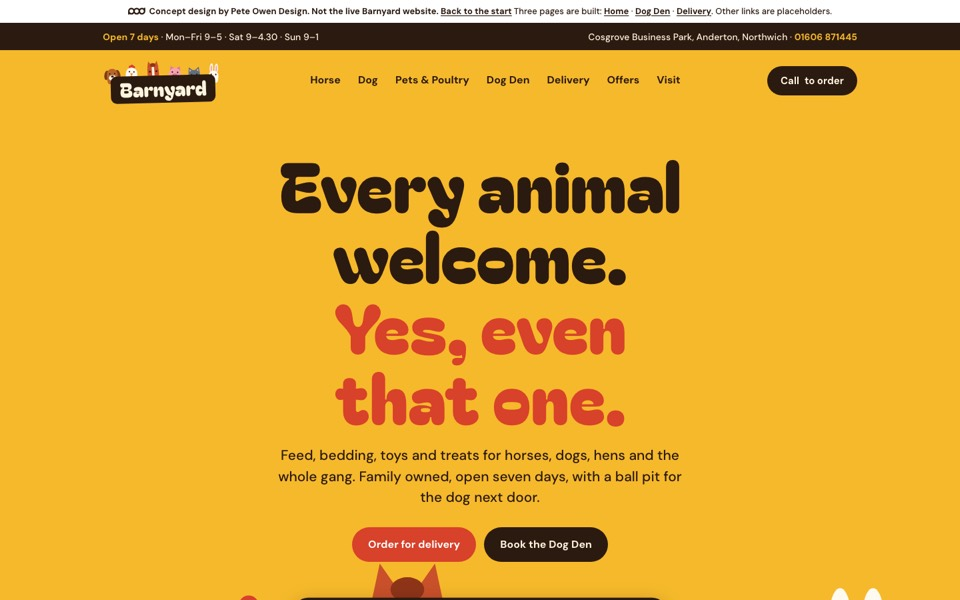
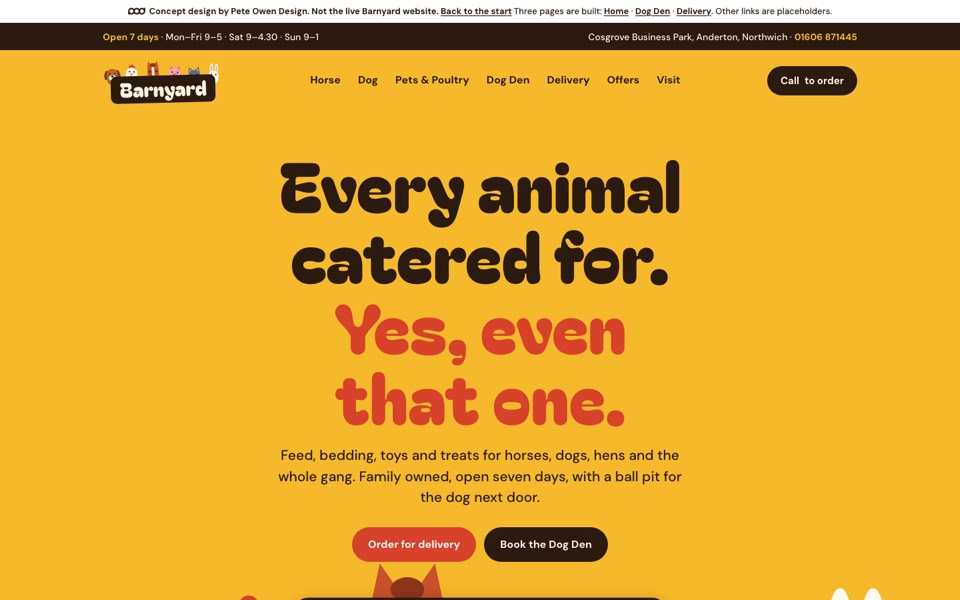
Fix AI check labels stretching; Barnyard headline update
The Working / To fix labels in the AI section no longer stretch to the row height.
Barnyard only: homepage headline now reads "Every animal catered for."

Changed region(s): [[0.2812, 0.39, 0.7188, 0.48]]

diff --git a/search-check.html b/search-check.html
@@ -71,7 +71,7 @@
   .ai{background:var(--card);border:1px solid var(--line);border-radius:var(--r);padding:32px 32px 24px}
   .airows{display:grid;gap:0;margin:0 0 18px}
   .airow{display:grid;grid-template-columns:92px 1fr;gap:16px;padding:16px 0;border-top:1px solid var(--line)}
-  .airow .tag{justify-self:start;margin:2px 0 0}
+  .airow .tag{justify-self:start;align-self:start;margin:2px 0 0;line-height:1.5}
   .airow h3{font-size:18px;margin:0 0 4px}
   .airow p{margin:0;font-size:16px;color:var(--soft);max-width:60ch}
   .aisub{font-size:15px;color:var(--soft);max-width:62ch;margin:0 0 10px}

diff --git a/design.html b/design.html
@@ -272,7 +272,7 @@
 <main>
 <section class="hero">
   <div class="wrap">
-    <h1>Every animal welcome. <span>Yes, even that one.</span></h1>
+    <h1>Every animal catered for. <span>Yes, even that one.</span></h1>
     <p>Feed, bedding, toys and treats for horses, dogs, hens and the whole gang. Family owned, open seven days, with a ball pit for the dog next door.</p>
     <div class="cta">
       <a class="btn" href="delivery.html">Order for delivery</a>
